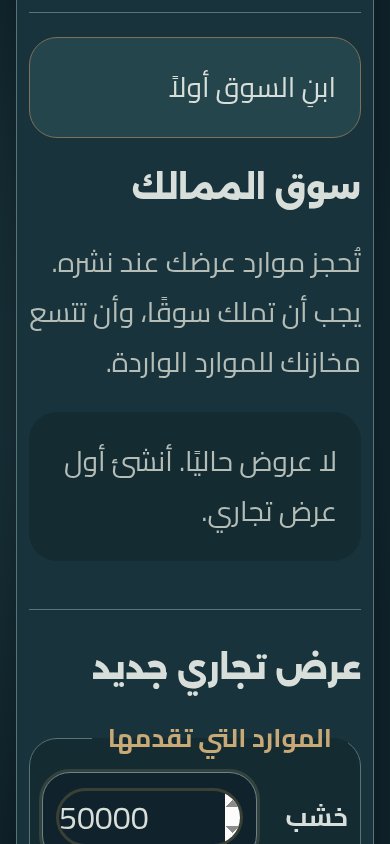
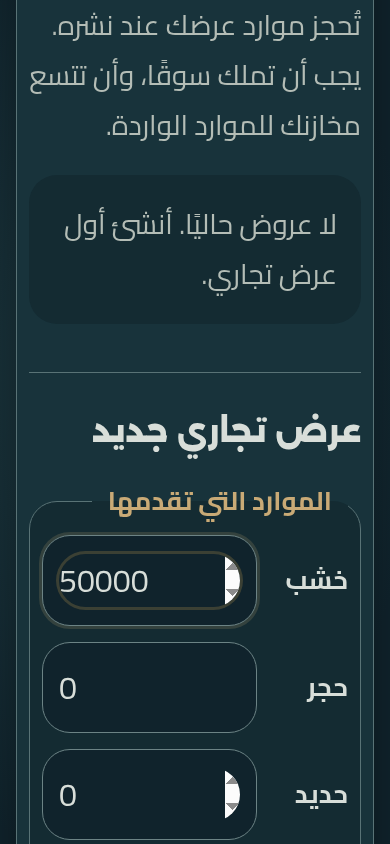
test(design): verify visual excellence against current production source

diff --git a/apps/web/e2e/visual-excellence-market.spec.ts b/apps/web/e2e/visual-excellence-market.spec.ts
@@ -17,7 +17,7 @@ for (const [name, width, height, dpr] of [
     const artworkRequests: string[] = [];
     page.on('request', req => { if (new URL(req.url()).pathname.includes('/city-scenes/market')) artworkRequests.push(new URL(req.url()).pathname); });
     page.on('pageerror', error => errors.push(error.message));
-    await page.goto('/');
+    await page.goto('/?visualQa=1');
     const stage = page.locator('[data-village-scene]');
     await expect(stage).toHaveAttribute('data-pixi-ready', 'true', { timeout: 30000 });
     await page.locator('summary').filter({ hasText: /^إعدادات القرية$/ }).click();
@@ -86,7 +86,7 @@ test('built market publishes and cancels an offer through the existing local eng
   expect((await request.post('/__village_test/advance-five-hours')).ok()).toBe(true);
   expect((await request.post('/api/kingdoms', { data: { worldId: 'browser-world', command: { type: 'build', villageId: 'v1', building: 'market' } } })).ok()).toBe(true);
   expect((await request.post('/__village_test/advance-five-hours')).ok()).toBe(true);
-  await page.goto('/');
+  await page.goto('/?visualQa=1');
   await expect(page.locator('[data-village-scene]')).toHaveAttribute('data-pixi-ready', 'true');
   await page.locator('summary').filter({ hasText: /^إعدادات القرية$/ }).click();
   await page.getByLabel('اختر مبنى من الخريطة', { exact: true }).selectOption('market');

diff --git a/apps/web/e2e/fixtures/village-scene-harness.tsx b/apps/web/e2e/fixtures/village-scene-harness.tsx
@@ -1,11 +1,14 @@
 import { createRoot } from 'react-dom/client';
-import '@fontsource-variable/cairo';
-import '@fontsource-variable/alexandria';
 import { AppRouterContext, type AppRouterInstance } from 'next/dist/shared/lib/app-router-context.shared-runtime';
 import { ImageConfigContext } from 'next/dist/shared/lib/image-config-context.shared-runtime';
 import { imageConfigDefault } from 'next/dist/shared/lib/image-config';
 import { KingdomsClient } from '../../src/components/kingdoms/kingdoms-client';
 import '../../src/app/globals.css';
+
+// Opt in to production fonts for Visual Excellence evidence without changing canonical fixtures.
+if (new URLSearchParams(window.location.search).has('visualQa')) {
+  await import('./visual-excellence-fonts');
+}
 
 // The standalone Vite fixture supplies navigation context; production uses Next's router.
 const router: AppRouterInstance = {

diff --git a/apps/web/e2e/fixtures/visual-excellence-fonts.ts b/apps/web/e2e/fixtures/visual-excellence-fonts.ts
@@ -1,0 +1,3 @@
+// Match production typography only in the opt-in Visual Excellence fixture.
+import '@fontsource-variable/cairo';
+import '@fontsource-variable/alexandria';

diff --git a/docs/visual-evidence/market/art-director-review.md b/docs/visual-evidence/market/art-director-review.md
@@ -5,7 +5,7 @@
 ## Scope and reviewer
 
 - Reviewer: Codex `quality_policy` subagent, independently reviewing the implementation agent's work using `qurabia-visual-qa`. This reviewer authored the permanent policy but did not implement the market presentation.
-- Revision: current local worktree, including market-scoped CSS/token changes, responsive picture assets, market summary grouping, and reviewed Playwright evidence. Uncommitted work; no push/deployment reviewed or authorized.
+- Revision: rebased commit `e9eb06b` on upstream `origin/main` at `39eb1f3`, plus refreshed local browser evidence and this review. I inspected the market source diff against that upstream base. Its newer Sultan Farm wrapper/effects and Safari rules remain intact; market picture sources and scoped CSS follow the updated structure. The market input rule uses `max(16px, 1rem)` to preserve enlarged text while retaining the upstream minimum size. The user authorized push/deployment separately; this review assesses visual acceptance only and does not perform either action.
 - Direction: existing Mamluk stone courtyard artwork with restrained teal/brass control surfaces; Cairo body and Alexandria headings; shared controls and semantic Kingdoms tokens. Other games retain their identities.
 - Environment: Chromium via local village fixture at `127.0.0.1:3314`; actual components, installed fonts, Pixi overview and unchanged local game engine. No production account or authenticated server flow.
 - Viewports/DPR: desktop 1440×900/1; mobile 390×844/1; narrow 320×568/2; tablet 834×1194/2; landscape 844×390/2. Reduced motion enabled. Enlarged-text evidence changes root font size to 200%, which is a text-reflow simulation, not native browser zoom.
@@ -16,7 +16,9 @@ I opened `before-desktop.png`, `before-mobile.png`, and all five after viewport 
 
 Before/after desktop and mobile show a clearer hierarchy and usable form grouping. The original mobile portrait consumes almost the entire initial viewport; the new landscape presentation retains the full courtyard and reaches trading controls much sooner. This improves framing and navigation, not the underlying art's detail.
 
-Reported by the implementation agent: final six browser tests passed, seven targeted unit tests passed, and ESLint passed. This reviewer examined their evidence/test code but did not independently rerun those commands. The six browser tests exercise empty/error states, resource input, command payload, focus/Escape return to overview, and successful built-market publish/cancel using the unchanged engine. Final build status is recorded separately by the implementation agent and does not contribute visual-quality points.
+After the rebase, I reopened all five refreshed viewport images and all five refreshed `fields-text-200` images with `view_image`. The visible market composition, scene framing, tablet stacking, Arabic legibility and five-digit enlarged inputs retain the reviewed quality; no new blocker appeared. Historical before/performance artifacts remain evidence from the original pilot baseline, not new benchmarks of the upstream Sultan Farm changes.
+
+Reported by the implementation agent on the rebased revision: six browser tests, 32 targeted unit tests, ESLint, and web/realtime builds passed. This reviewer examined the refreshed image/source evidence and test code but did not independently rerun those commands. The six browser tests exercise empty/error states, resource input, command payload, focus/Escape return to overview, and successful built-market publish/cancel using the unchanged engine. Builds do not contribute visual-quality points.
 
 ## Score and deductions
 

diff --git a/docs/visual-evidence/market/README.md b/docs/visual-evidence/market/README.md
@@ -1,6 +1,6 @@
 # تجربة Visual Excellence — سوق قرية الممالك
 
-نفذت التجربة محليًا على مكونات التطبيق الفعلية داخل fixture القرية القائم، مع محرك اللعبة المحلي والخطين Cairo/Alexandria نفسيهما. لم تتغير قواعد اللعبة أو البيانات الدائمة أو إعدادات الإنتاج، ولم يحدث commit أو push أو نشر.
+نفذت التجربة محليًا على مكونات التطبيق الفعلية داخل fixture القرية القائم، مع محرك اللعبة المحلي والخطين Cairo/Alexandria نفسيهما. لم تتغير قواعد اللعبة أو البيانات الدائمة أو إعدادات الإنتاج. كان الالتقاط الأول محليًا؛ أجاز المستخدم لاحقًا الرفع والنشر.
 
 ## ما تغير ولماذا
 
@@ -55,3 +55,9 @@ pnpm exec playwright test --config playwright.visual-excellence.config.ts
 مشهد السوق صورة ثابتة مستقلة ولا يملك زومًا تفاعليًا؛ لم تُغير كاميرا المدينة أو هندستها. الدقة القصوى المتاحة 1672px وتحد اختيار نسخة DPR مرتفعة؛ لا وعد بتفاصيل جديدة عند التكبير. لم يُختبر WebP على متصفح يفتقر إلى AVIF أو Safari/Firefox أو زوم المتصفح الأصلي؛ اختبار 200% يكبر الخط الجذري ولا يحاكي جميع إعدادات الجهاز. بقيت ملاحظات طفيفة بشأن الفراغ تحت الصورة على الكمبيوتر واكتشاف إجراء النشر بالتمرير. المصادقة والإنتاج والأجهزة الفعلية خارج هذا التحقق المحلي.
 
 النظام الدائم في [السياسة](../../visual-excellence.md) و[دور Art Director](../../../.agents/skills/qurabia-visual-qa/SKILL.md)، ومراجعة المجالات والأدوات في [تقرير GitHub](../../visual-excellence-tools.md). الدور تعليمات عمل مفعلة عبر AGENTS للمهام المرئية، وليس عملية مراقبة خلفية دائمة.
+
+## تحقق دمج النشر — 2026-10-13
+
+دُمجت التغييرات فوق `main` عند `39eb1f3c204b040466159536b57bba4dceee3340`، مع الحفاظ على SultanFarmWorld وإصلاحات Safari الجديدة. أعيد التقاط أدلة «بعد»: نجحت 6 اختبارات متصفح و32 اختبار مكونات مستهدفًا وESLint، ونجح بناء الويب والزمن الحقيقي. بقيت مراجع «قبل» وقياسات الأداء تاريخية للنسخة المحلية الأولى؛ لم تُعاد قياسات الأداء عند هذا الدمج.
+
+تحميل خطوط الإنتاج في fixture مُفعّل فقط عند `?visualQa=1` للحفاظ على مراجع Living City الأخرى؛ تختاره اختبارات هذه التجربة وأداة الأداء تلقائيًا.
